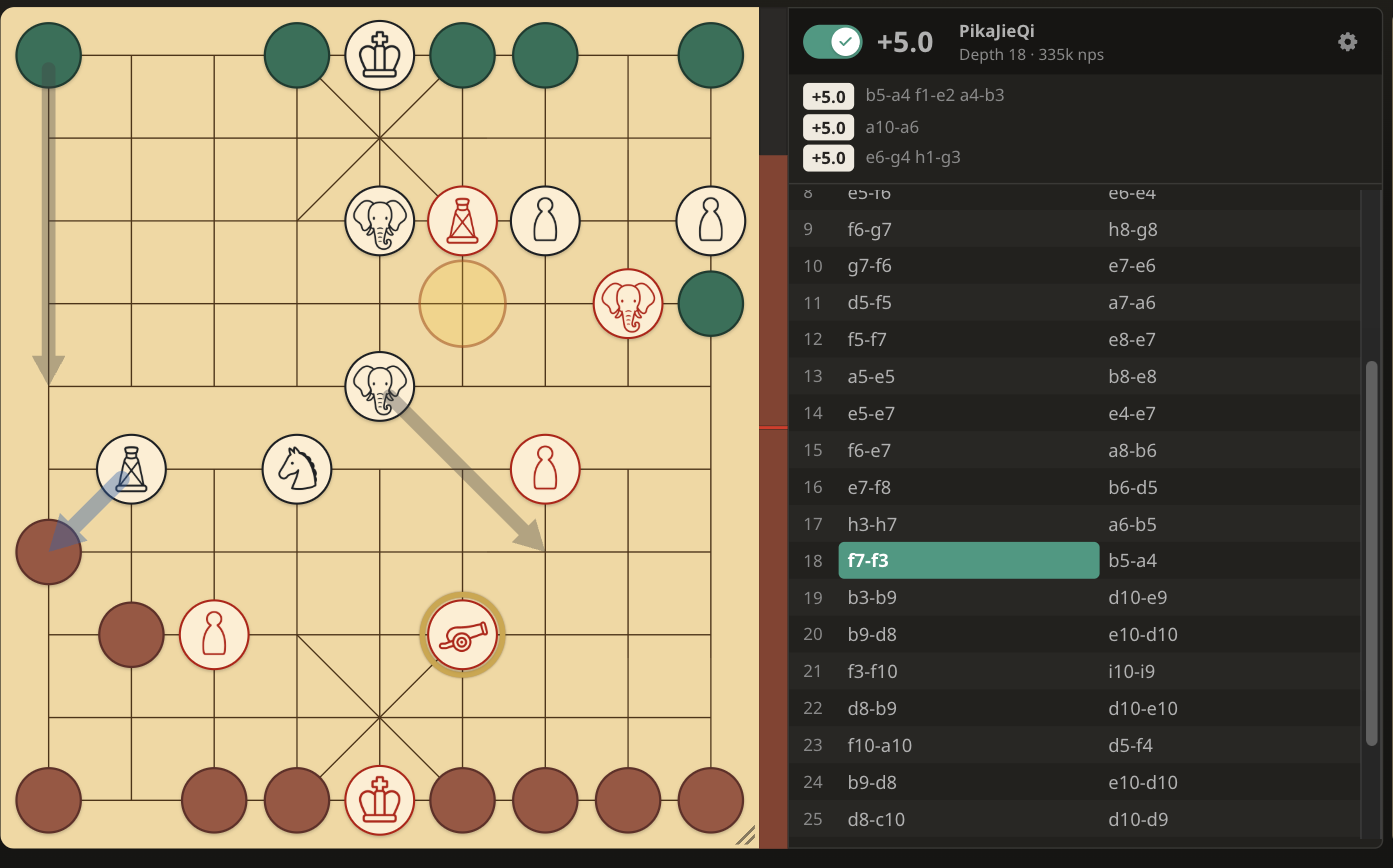
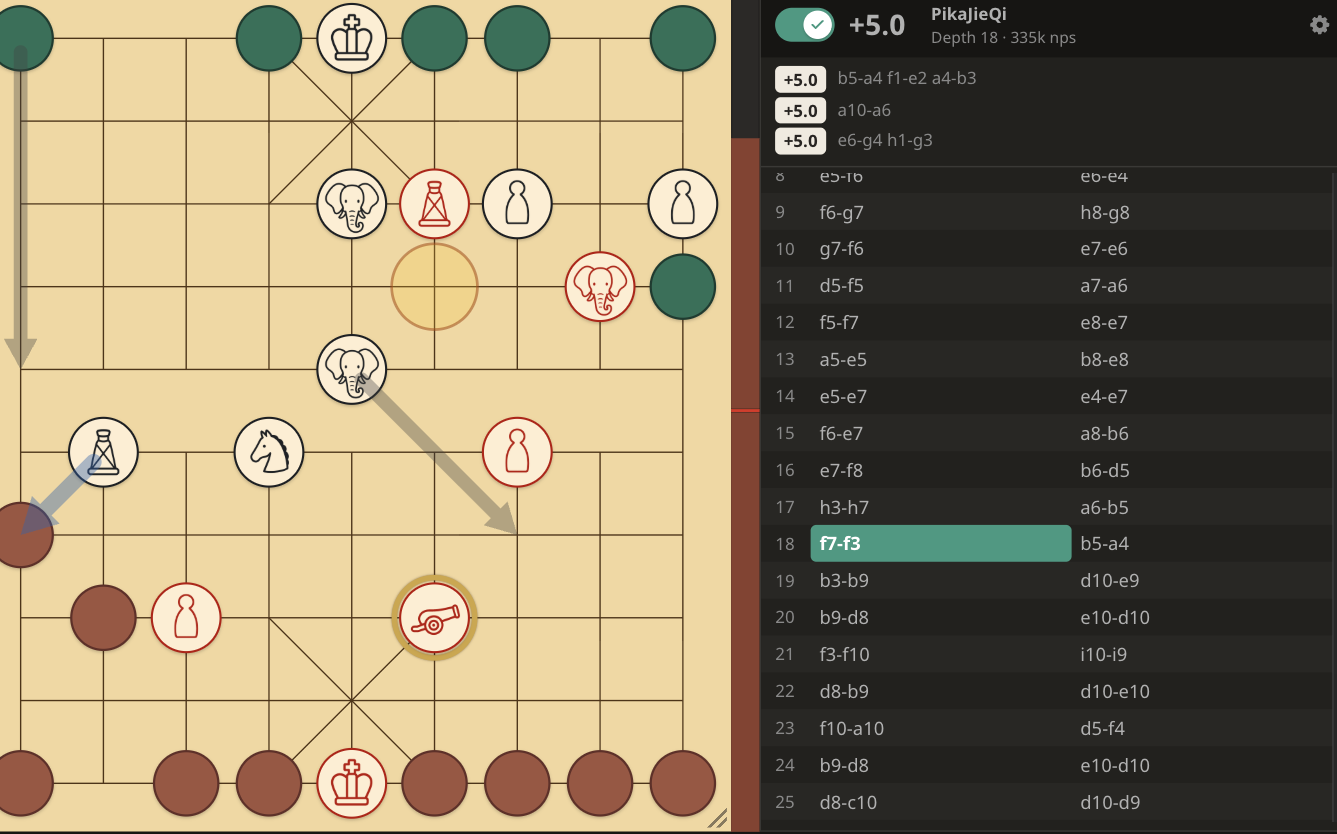
content(jieqi): shrink the replay, trim a figure, and open up the engine section
The replay opened the page at the 480px shared with the rules article, where it
dominated the fold and pushed the copy below it. Here the replay is a lead-in
rather than the subject, so it drops to 360px, scoped by article slug: the rules
article keeps its size, because there the board IS the subject.

Trimmed 2% off every side of the local-engine figure.

The engine section now says what it actually is and what is wrong with it:

- Our fork and the WebAssembly build are linked, with the point that one source
  produces both the server engine and the in-browser one, so they cannot disagree
  about the rules.
- The dark-piece bias is given its measurement (steady from depth 8 to depth 48),
  which is what makes it an evaluation problem rather than a "needs more time"
  problem. Stating the range is the difference between a claim and a finding.
- A new part on the missing NNUE: the shipped branch evaluates by hand, nearly all
  of modern Pikafish's strength is in its net, the EvalFile hook is already wired,
  and producing a jieqi net is the part we have not solved. Tracked in #303.
- The open-source close now names the contribution actually wanted (someone who
  trains nets, or who knows jieqi well enough to say where the eval goes wrong)
  rather than gesturing at a repo.

Saying plainly that the engine has a known bias and a missing net is better copy
than implying it is strong. A jieqi player who beats it will find out in one game;
[…]

diff --git a/apps/web/src/articles/content/jieqi-platform.ts b/apps/web/src/articles/content/jieqi-platform.ts
@@ -170,12 +170,17 @@ export const jieqiPlatformArticle: Article = {
         {
           kind: 'paragraph',
           text:
-            'PikaJieQi is a fork of [Pikafish](https://github.com/official-pikafish/Pikafish), the open-source xiangqi engine, on a branch built for jieqi. Classical search with a hand-written evaluation and no neural network, which is why it is beatable in a way a top xiangqi engine is not. It is listed as Pikafish in the lobby.',
+            'PikaJieQi is a fork of [Pikafish](https://github.com/official-pikafish/Pikafish), the open-source xiangqi engine, on its jieqi branch. Classical search with a hand-written evaluation and no neural network. It is listed as Pikafish in the lobby.',
         },
         {
           kind: 'paragraph',
           text:
-            'The build is pinned to one upstream commit rather than tracking a branch, so the engine behind your analysis does not quietly change under you between one game and the next.',
+            'Our [fork and the WebAssembly build](https://github.com/brianhliou/pikafish-jieqi-wasm) are public. The same source produces both the engine that plays you on the server and the one that analyses in your browser tab, so the two never disagree about the rules.',
+        },
+        {
+          kind: 'paragraph',
+          text:
+            'The server build is pinned to one upstream commit rather than tracking a branch, so the engine behind your analysis does not quietly change under you between one game and the next.',
         },
         { kind: 'sub-heading', text: 'What it is allowed to see' },
         {
@@ -183,17 +188,33 @@ export const jieqiPlatformArticle: Article = {
           text:
             'It receives the redacted board only, with every face-down piece written as a faceless x. It does not know the deal. That boundary is the whole reason the engine can be trusted to play and to analyse the same game, so it is enforced by a test that fails the build if the wire format ever leaks a true identity.',
         },
-        { kind: 'sub-heading', text: 'What it is bad at' },
+        { kind: 'sub-heading', text: 'What it is bad at, and why' },
         {
           kind: 'paragraph',
           text:
-            'It values its own hidden pieces optimistically, so it over-commits them. That bias sits in the evaluation rather than the search depth, which means more thinking time does not remove it. The game at the top of this page is one it lost that way.',
+            'It values its own face-down pieces optimistically, so it over-commits them. We measured that bias holding steady from depth 8 all the way to depth 48, which places it in the evaluation rather than the search. More thinking time cannot remove it. The game at the top of this page is one the engine lost that way.',
         },
-        { kind: 'sub-heading', text: 'All of it is open source' },
+        { kind: 'sub-heading', text: 'The missing piece is a net' },
+        {
+          kind: 'paragraph',
+          text:
+            'Almost all of modern Pikafish\'s strength lives in its NNUE, a small neural network that does the evaluating. There is no trained jieqi net. The branch we ship predates it and evaluates by hand, which is why a careful human can beat it and why the bias above survives any depth we throw at the position.',
+        },
+        {
+          kind: 'paragraph',
+          text:
+            'The hook is already in place: point the engine at a net file and it will load one. Producing that net is the part we have not solved. It needs jieqi training data at a scale we do not have and a build of the newer branch, and it is the single change that would most improve both the bot and the analysis on this page.',
+        },
+        { kind: 'sub-heading', text: 'Open source, and help wanted' },
         {
           kind: 'paragraph',
           text:
             'Mistboard is [open source](https://github.com/brianhliou/mistboard): the jieqi rules engine, the redaction boundary, the decision-versus-luck maths described above, and the tests that hold them in place. If you think a number on this page is wrong, the code that produced it is readable.',
+        },
+        {
+          kind: 'paragraph',
+          text:
+            'If you train nets, or you know jieqi well enough to say where the evaluation goes wrong, that is the contribution we would most like to have. The engine work is in the [fork](https://github.com/brianhliou/pikafish-jieqi-wasm) and the platform work is in the [main repo](https://github.com/brianhliou/mistboard).',
         },
       ],
     },

diff --git a/apps/web/src/articles.css b/apps/web/src/articles.css
@@ -1733,6 +1733,14 @@
   margin-inline: auto;
 }
 
+/* The jieqi platform page opens on the replay, so it is a lead-in rather than the
+   subject: at the shared 480px it dominates the fold and pushes the copy under it.
+   Scoped by slug so the rules article's replay, where the board IS the subject,
+   keeps its size. */
+[data-article-slug="jieqi-platform"] .raw-svg-stepper-frame.raw-svg-stepper-frame-jieqi > svg {
+  width: min(360px, 100%);
+}
+
 /* Banqi sample-game board: rendered with the diagram primitives (xq-diagram-bg,
    50px cells) so it matches the other banqi figures. Fills the article column,
    like the static banqi board diagrams above it. */
